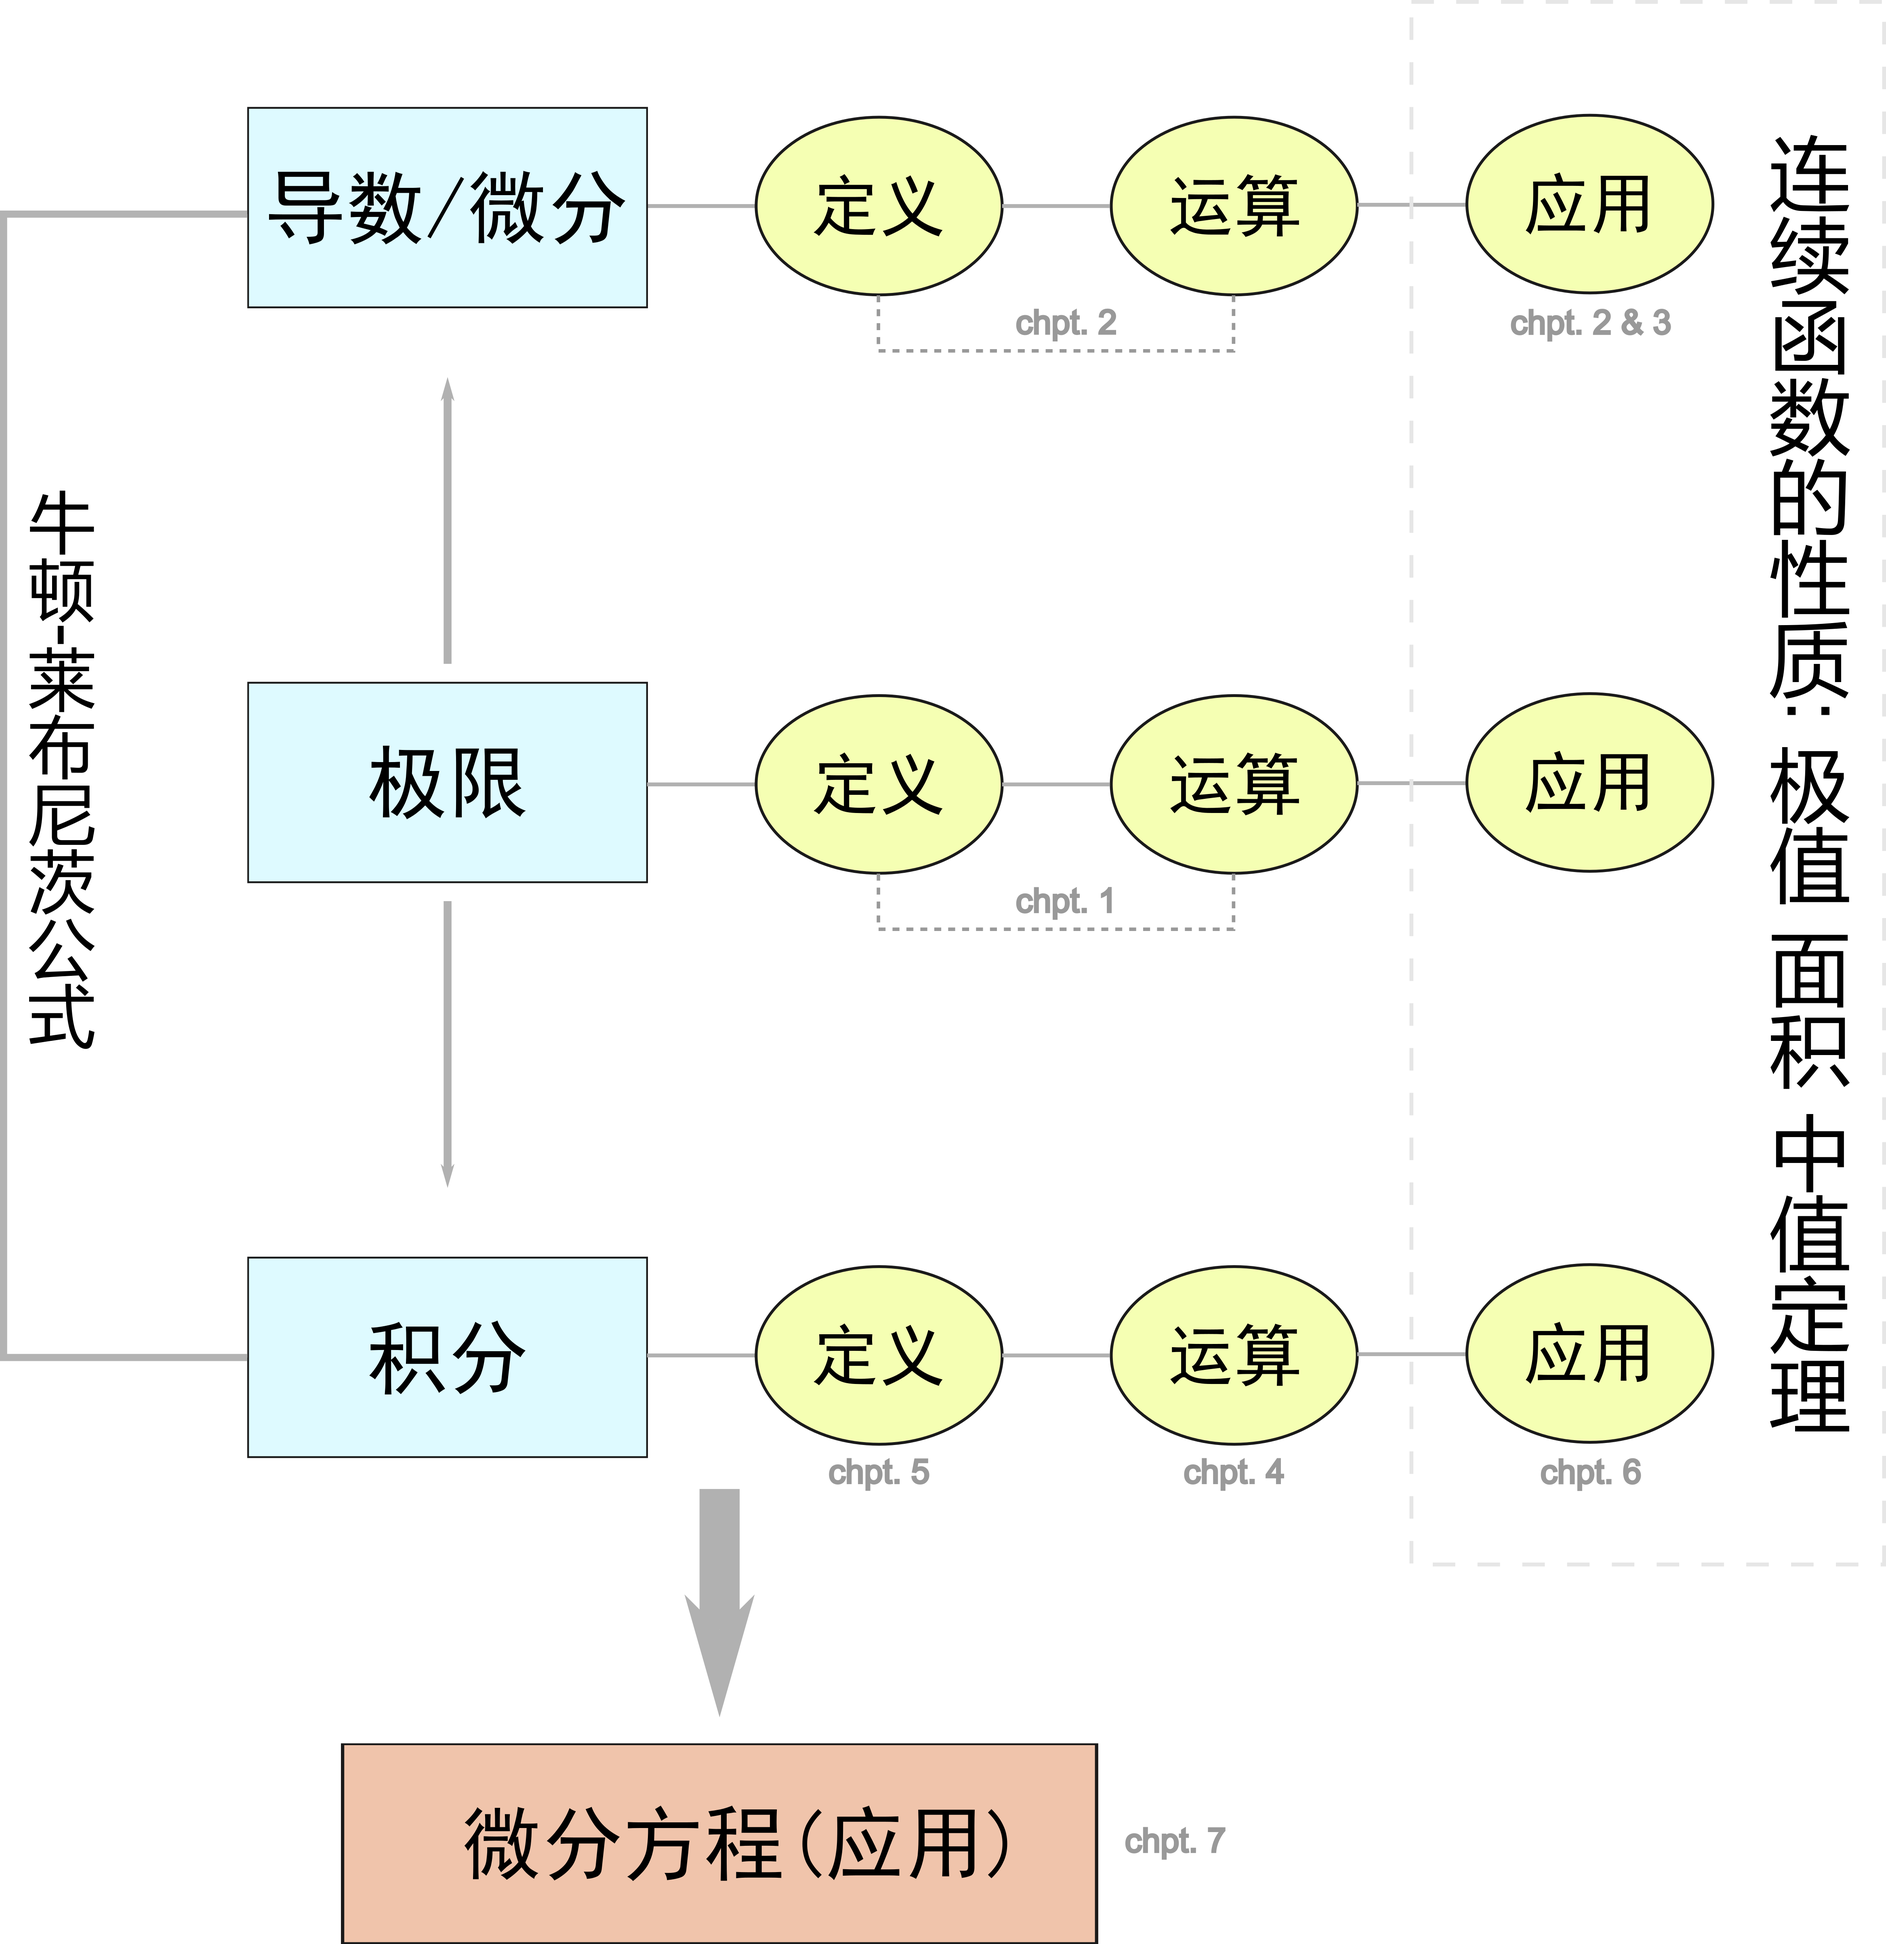
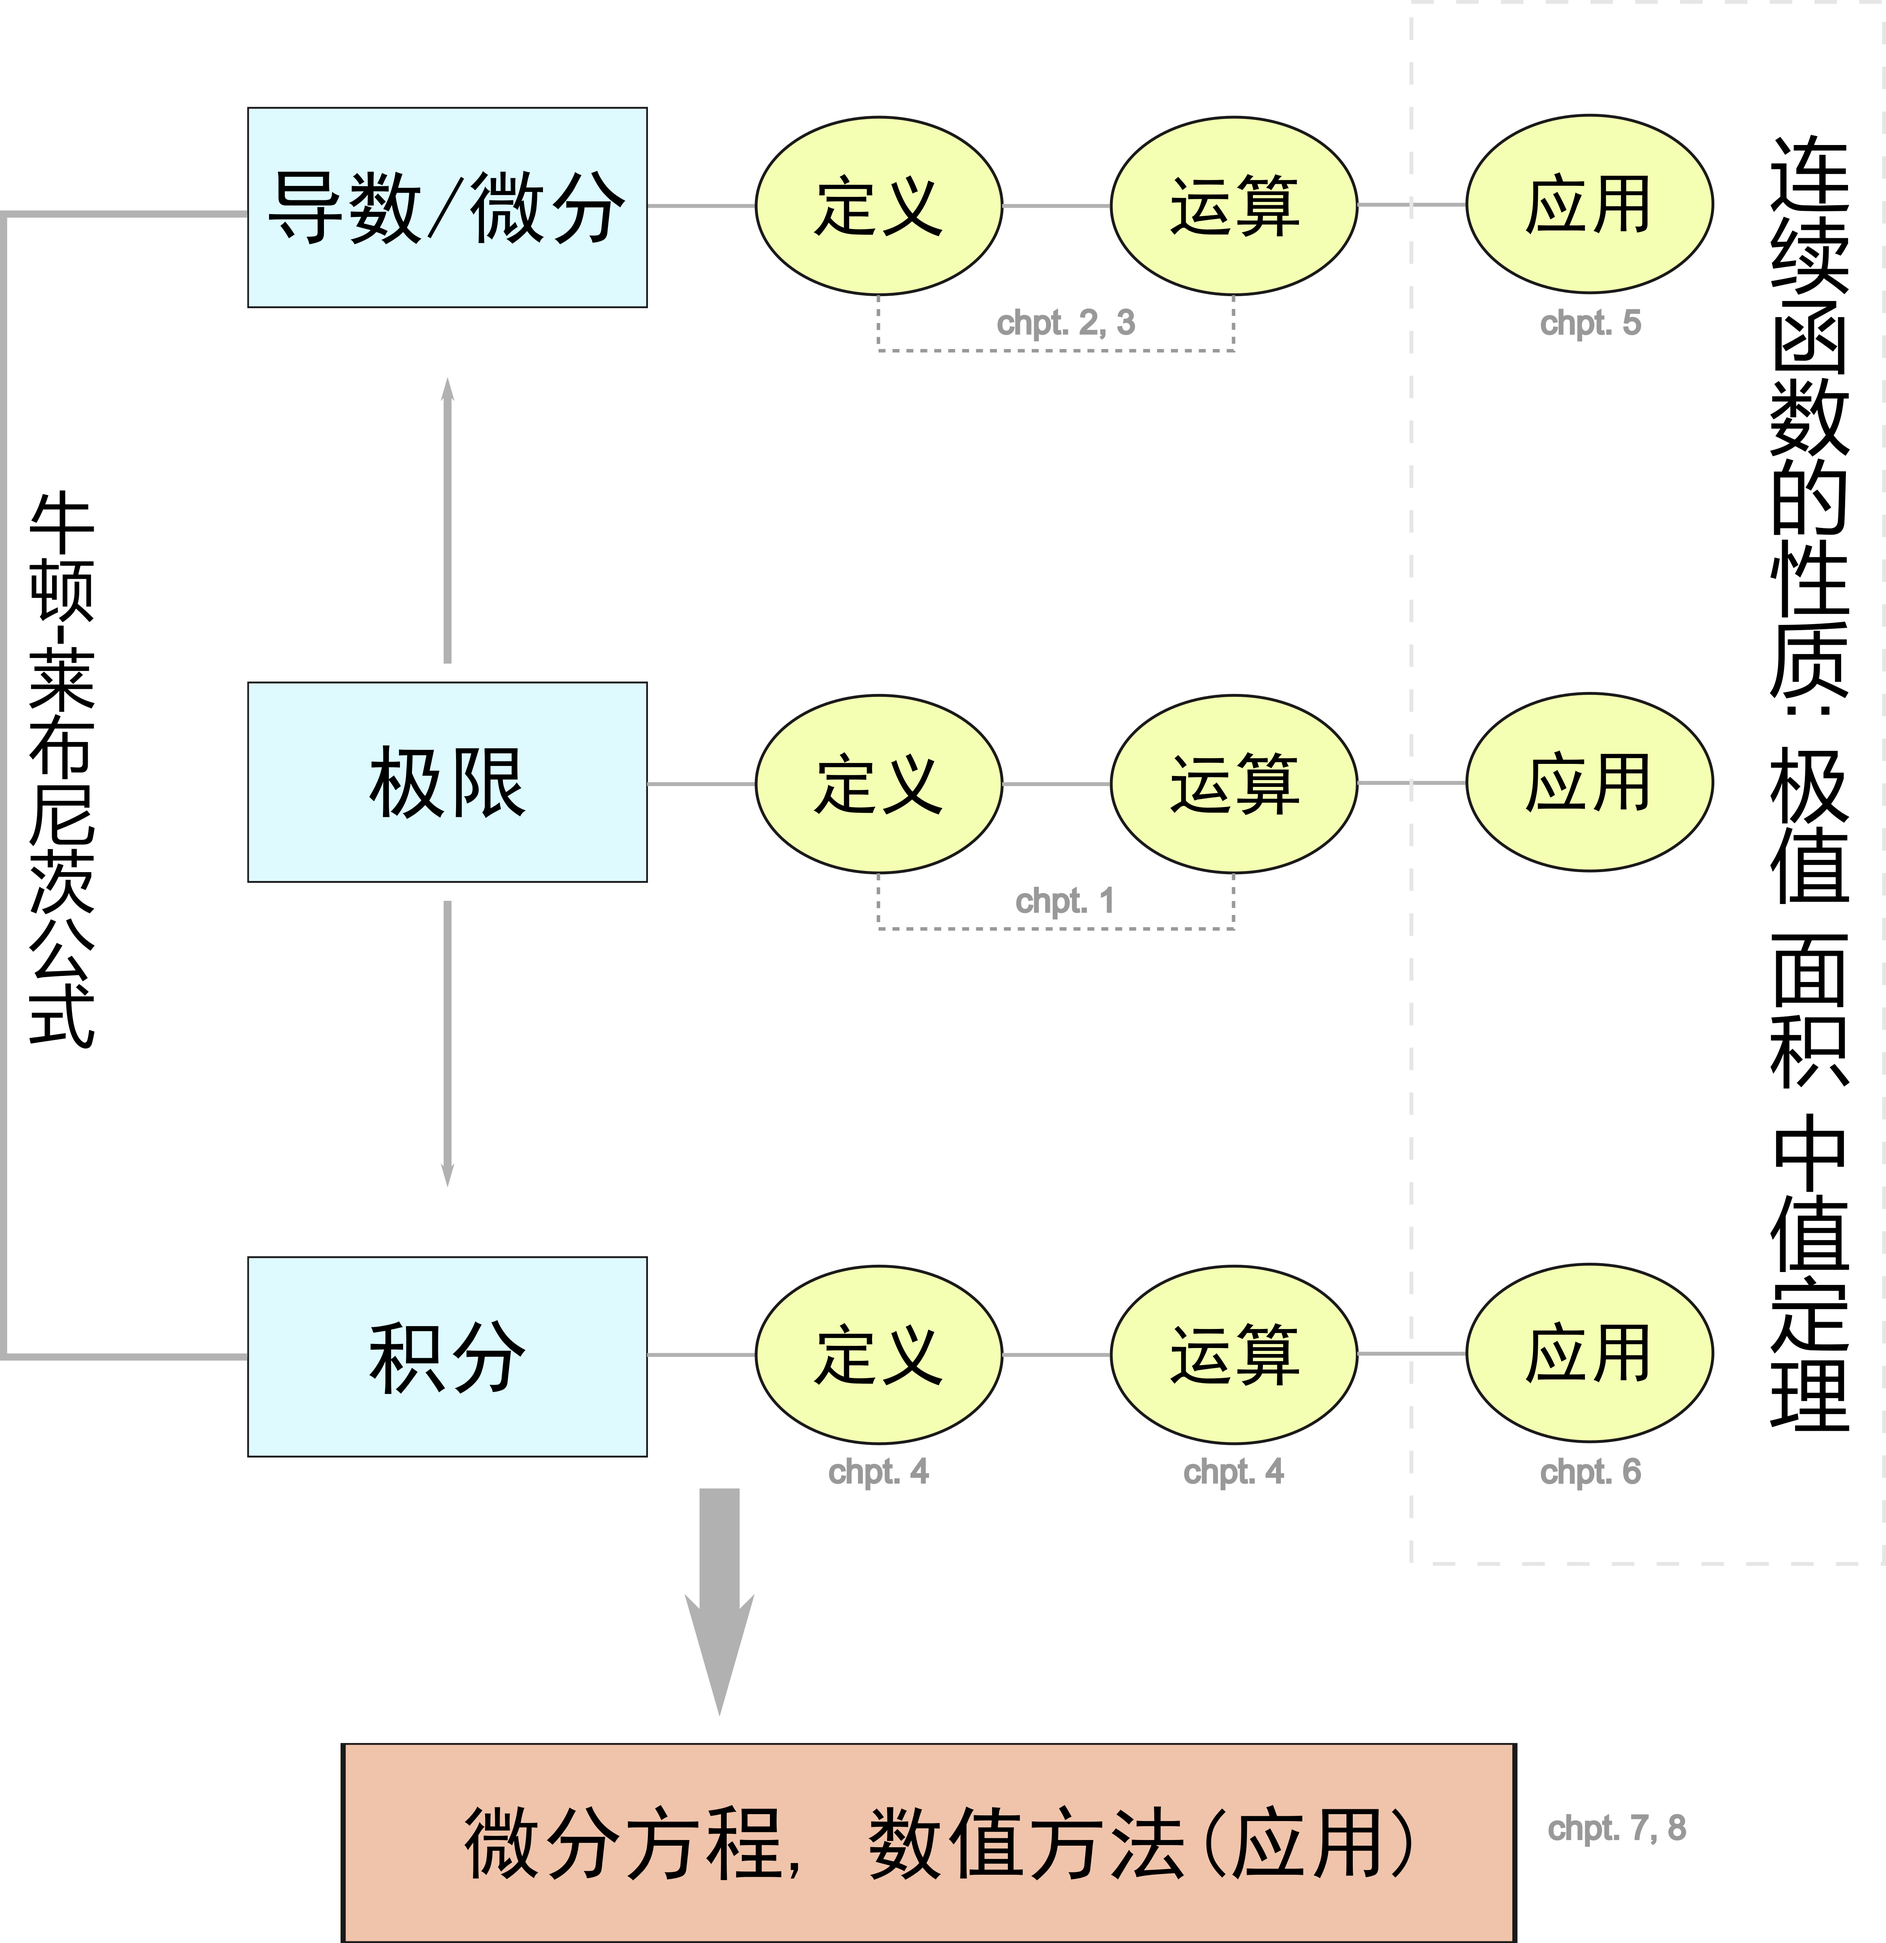
upload

Changed region(s): [[0.4037, 0.8732, 0.9006, 1.0], [0.8075, 0.1559, 0.8696, 0.1871], [0.528, 0.1559, 0.5901, 0.1871]]

diff --git a/vlook/vlook-thinking.css b/vlook/vlook-thinking.css
@@ -12223,18 +12223,18 @@ content>#write .md-alert-caution p>span[md-inline=em]:only-child>em>span[md-inli
 /* 针对 KaTeX 渲染的行内和块级公式 */
 .katex, 
 .katex-display {
-    font-size: 0.8em !important; 
+    font-size: 0.85em !important; 
 }
 
 /* 针对 MathJax 渲染的公式（如果您的文档使用 MathJax）*/
 .mjx-container {
-    font-size: 0.8em !important;
+    font-size: 0.85em !important;
 }
 
 /* 如果您的 Vlook 版本使用了通用的 .md-formula 或 .formula 类 */
 .md-formula,
 .formula { /* .v-segment-btn.formula 类在文件中出现过，但这里更可能是指公式容器类 */
-    font-size: 0.8em !important;
+    font-size: 0.85em !important;
 }
 
 /* 隐藏导航中心的拖拽/浮动 handle */

diff --git a/Volume1/chapter2.md b/Volume1/chapter2.md
@@ -27,20 +27,19 @@ vlook-doc-lib:
 
 > [!tip]
 > 
-> ==导数是一种通过极限定义的运算==
-> 
 > 实际问题中人们经常会考虑某个函数的**极值**, 函数的**切线方向**是分析函数极值的有力工具: 
 > - 切线斜率为正时函数单调递增
 > - 切线斜率为负时函数单调递减
 > - 切线斜率为零时函数取到极值
 >
-> 那么怎么求函数在某处**切线的斜率**呢? 这个问题困扰了数学家好多年, 直到后来有人发现**切线斜率可以看作是一个极限**, 这个极限也叫做**导数**.
-> 
-> 由此我们也可以进一步体会到**极限**的重要性. 而在后面的章节中, 我们会再次运用**极限**来构造**积分**. 因此极限的概念相当于整个微积分的基础. 
-> 
-> 右图给出了课本各部分内容之间的关系.
+> 那么怎么求函数在某处**切线的斜率**呢? 这个问题困扰了数学家好多年, 直到后来有人发现**切线斜率可以看作是一个极限**, 这个极限就叫做**导数**.
+>
+
+> [!tip]
 > 
 > ==思维导图==
+> 
+> 导数是一种通过极限定义的运算, 由此可见极限的重要性, 在后面的章节中, 我们还将从极限出发引出积分的概念. 本课程各部分内容之间的关系如图.
 > 
 > ![微积分思维导图](../media/img/chpt2_derivative.png#400h)
 
@@ -48,10 +47,7 @@ vlook-doc-lib:
 
 > [!tip]
 >
-> - 导数是函数的**瞬时变化率**.
-> - 导数是函数某处的**切线斜率**.
-> 
->  ==**导数**是研究函数性质的重要工具==
+> 导数是函数某处的**切线斜率**, 是研究函数性质的重要工具.
 > 
 >  **问题**: 计算 $\displaystyle f(x) = \sin(x) - \frac{2x}{\pi}$在$\displaystyle [0,{\pi}]$的最大值.
 > 
@@ -129,12 +125,12 @@ vlook-doc-lib:
 
 ### 2.1.2 导函数
 
-> [!tip]
+> [!important]
 > 
 > 对函数 $f(x)$ 定义域上的每一点都求导 (假设每一点的导数都存在), 得到一个新的函数, 称为**导函数**, 记作 $f'(x)$. 导函数是由 $f(x)$ **衍生**出来的, 正好和 Derivative (导数) 的意思一致.
 
 
-> [!extension]
+> [!caution]
 >
 > ==Derivative(金融衍生品)==
 >
@@ -147,7 +143,8 @@ vlook-doc-lib:
 > 类比：
 > - 数学导数：$f'(x)$ 依赖于 $f(x)$，描述 $f(x)$ 的变化率，是由 $f(x)$ “衍生”出来的。
 > - 金融期权：期权的价格依赖于股票价格，是由股票“衍生”出来的金融产品。
-> 
+
+
 > [!note]
 >
 >  ==例3==
@@ -178,7 +175,6 @@ vlook-doc-lib:
 > \end{align*}
 > $$
 >
-
 
 > [!warning]
 > 

diff --git a/Volume1/chpt2.md b/Volume1/chpt2.md
@@ -2,20 +2,19 @@
 
 > [!tip]
 > 
-> ==导数是一种通过极限定义的运算==
-> 
 > 实际问题中人们经常会考虑某个函数的**极值**, 函数的**切线方向**是分析函数极值的有力工具: 
 > - 切线斜率为正时函数单调递增
 > - 切线斜率为负时函数单调递减
 > - 切线斜率为零时函数取到极值
 >
-> 那么怎么求函数在某处**切线的斜率**呢? 这个问题困扰了数学家好多年, 直到后来有人发现**切线斜率可以看作是一个极限**, 这个极限也叫做**导数**.
-> 
-> 由此我们也可以进一步体会到**极限**的重要性. 而在后面的章节中, 我们会再次运用**极限**来构造**积分**. 因此极限的概念相当于整个微积分的基础. 
-> 
-> 右图给出了课本各部分内容之间的关系.
+> 那么怎么求函数在某处**切线的斜率**呢? 这个问题困扰了数学家好多年, 直到后来有人发现**切线斜率可以看作是一个极限**, 这个极限就叫做**导数**.
+>
+
+> [!tip]
 > 
 > ==思维导图==
+> 
+> 导数是一种通过极限定义的运算, 由此可见极限的重要性, 在后面的章节中, 我们还将从极限出发引出积分的概念. 本课程各部分内容之间的关系如图.
 > 
 > ![微积分思维导图](../media/img/chpt2_derivative.png#400h)
 
@@ -23,10 +22,7 @@
 
 > [!tip]
 >
-> - 导数是函数的**瞬时变化率**.
-> - 导数是函数某处的**切线斜率**.
-> 
->  ==**导数**是研究函数性质的重要工具==
+> 导数是函数某处的**切线斜率**, 是研究函数性质的重要工具.
 > 
 >  **问题**: 计算 $\displaystyle f(x) = \sin(x) - \frac{2x}{\pi}$在$\displaystyle [0,{\pi}]$的最大值.
 > 
@@ -104,12 +100,12 @@
 
 ### 导函数
 
-> [!tip]
+> [!important]
 > 
 > 对函数 $f(x)$ 定义域上的每一点都求导 (假设每一点的导数都存在), 得到一个新的函数, 称为**导函数**, 记作 $f'(x)$. 导函数是由 $f(x)$ **衍生**出来的, 正好和 Derivative (导数) 的意思一致.
 
 
-> [!extension]
+> [!caution]
 >
 > ==Derivative(金融衍生品)==
 >
@@ -122,7 +118,8 @@
 > 类比：
 > - 数学导数：$f'(x)$ 依赖于 $f(x)$，描述 $f(x)$ 的变化率，是由 $f(x)$ “衍生”出来的。
 > - 金融期权：期权的价格依赖于股票价格，是由股票“衍生”出来的金融产品。
-> 
+
+
 > [!note]
 >
 >  ==例3==
@@ -153,7 +150,6 @@
 > \end{align*}
 > $$
 >
-
 
 > [!warning]
 > 

diff --git a/Volume1/chapter1.md b/Volume1/chapter1.md
@@ -1017,4 +1017,3 @@ vlook-doc-lib:
 > **例1：证明方程 $x^{3} - 4x^{2} + 1 = 0$ 在区间 $(0,\,1)$ 内至少有一个根**
 > 
 > 证明：函数 $f ( x ) = x ^ { 3 } - 4 x ^ { 2 } + 1$ 在闭区间 $[0，1]$上连续，又$f ( 0 ) = 1 >0$，$f ( 1 ) = - 2< 0$. 根据介值定理，区间 $[0，1]$ 内存在 $c$ 满足 $f(c) = 0$, 此即方程 $x ^ { 3 } - 4 x ^ { 2 } + 1 = 0$ 的一个根． 
->
